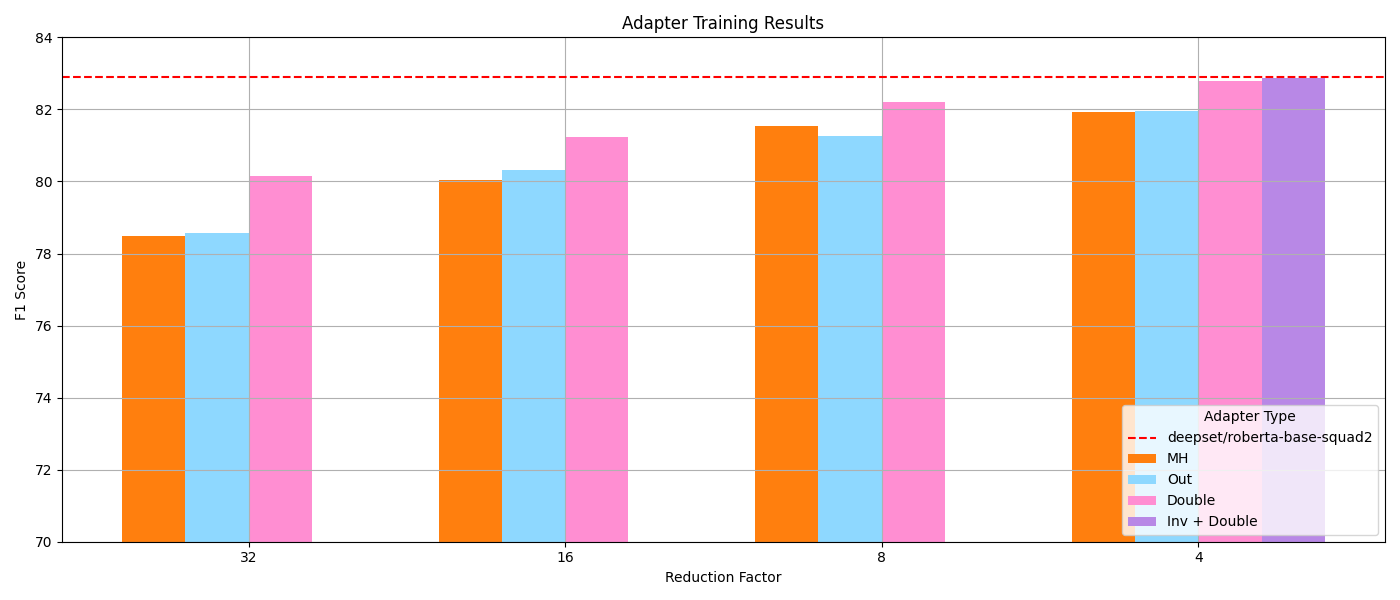
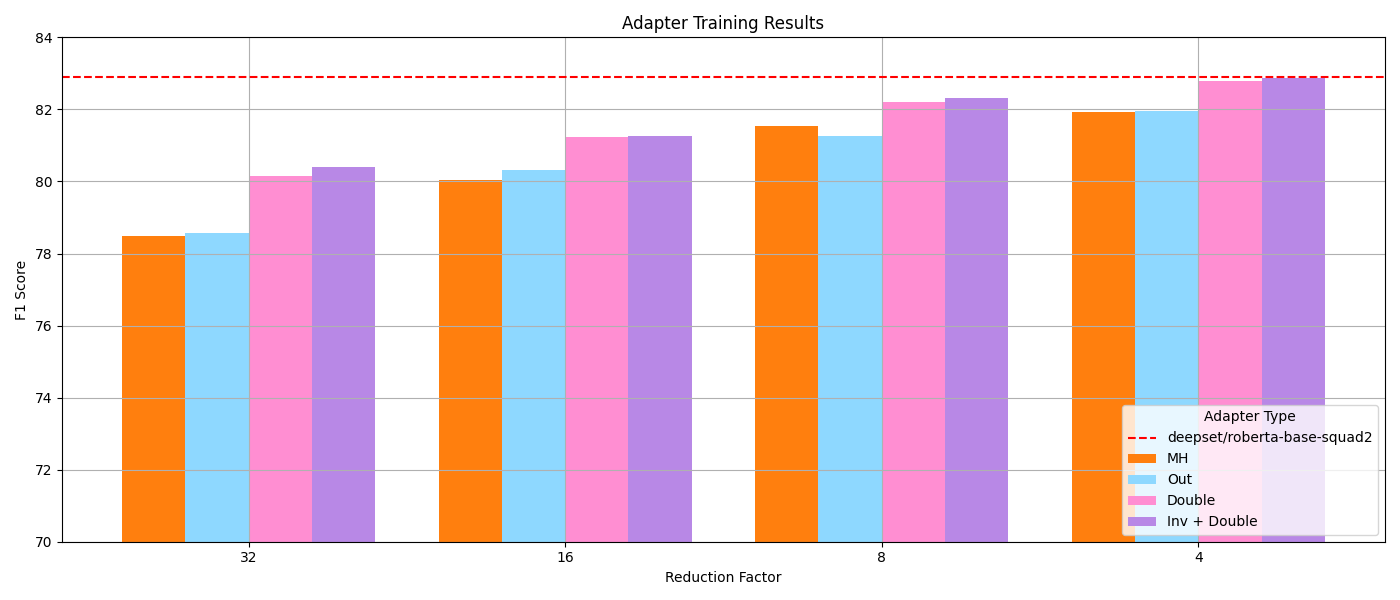
update the performance graph

Changed region(s): [[0.6757, 0.15, 0.7371, 0.93], [0.43, 0.21, 0.4914, 0.93], [0.215, 0.27, 0.2764, 0.9]]

diff --git a/performance_graph.py b/performance_graph.py
@@ -7,7 +7,7 @@ data = {
     "MH": [78.48453790052511, 80.0521476761068, 81.52592408783839, 81.91815525007279],
     "Out": [78.56006070686142, 80.31803632386513, 81.26012946094882, 81.95067804161363],
     "Double": [80.16030422326828, 81.22953410085692, 82.20740610600804, 82.79272097494145],
-    "Inv + Double": [None, None, None, 82.86460658011505],
+    "Inv + Double": [80.41014578996885, 81.24862350436496, 82.32785022398171, 82.86460658011505],
 }
 
 df = pd.DataFrame(data)
